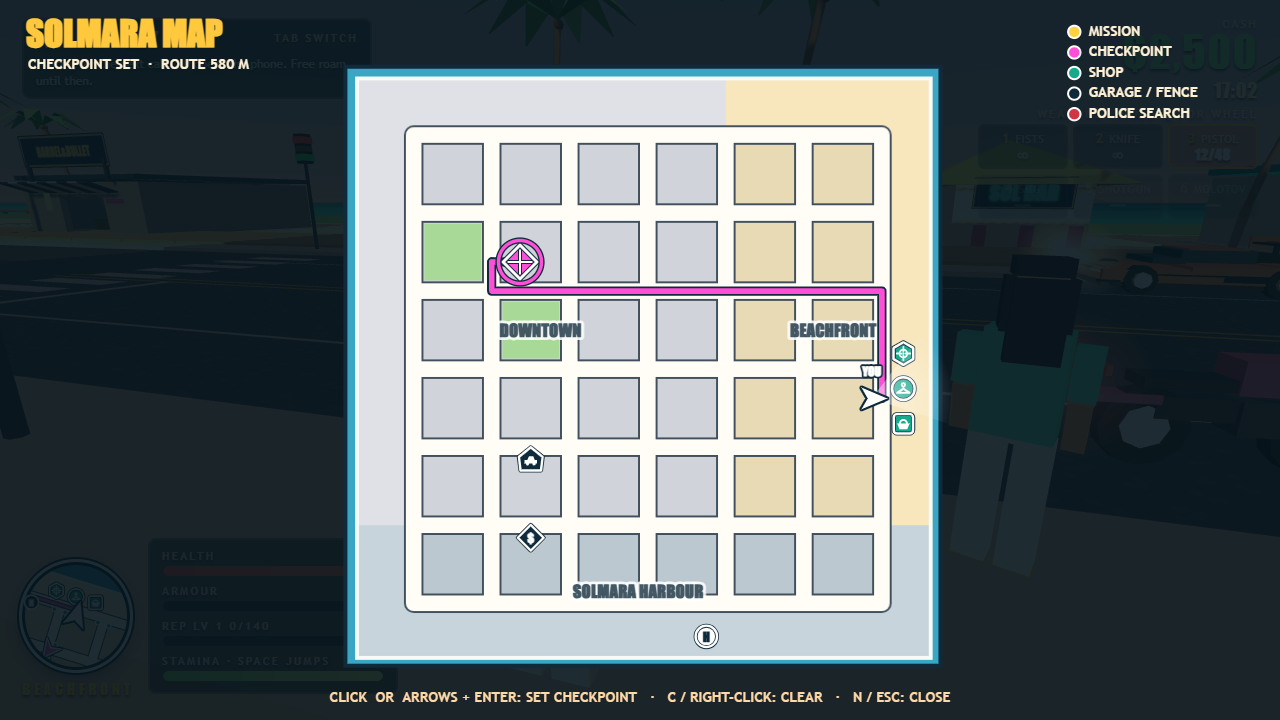
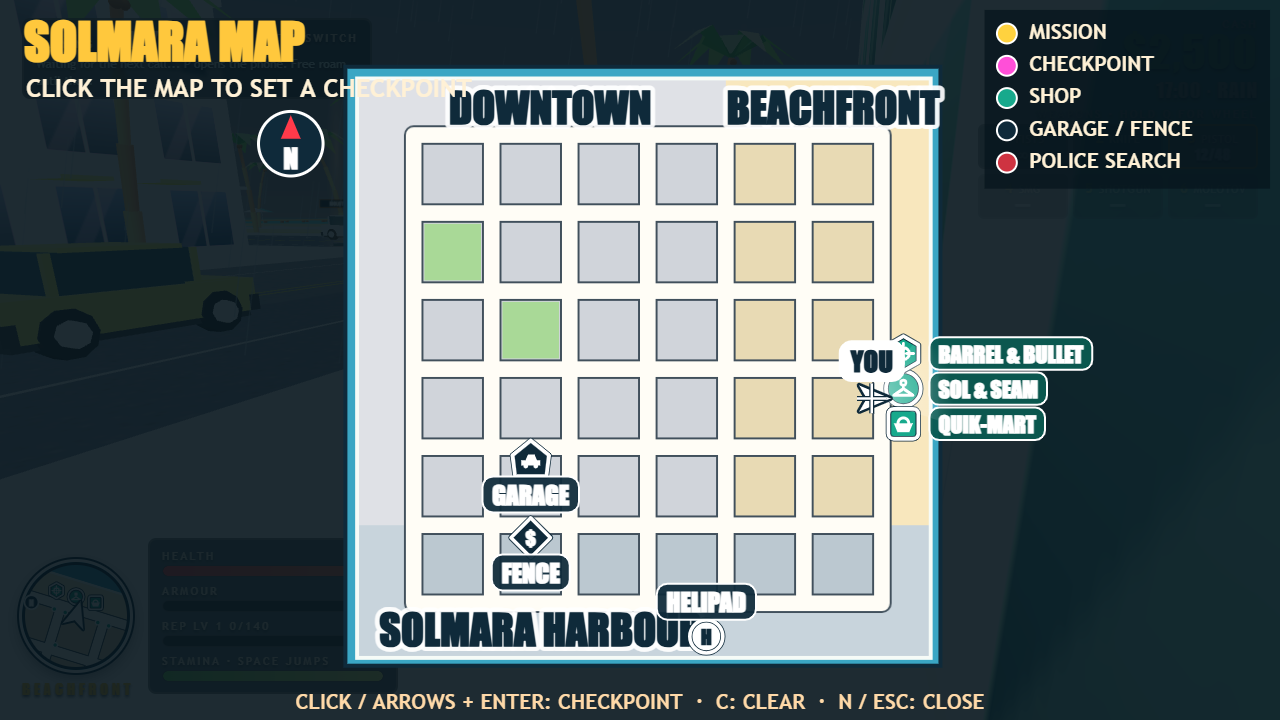
Map labels: district names, FENCE/GARAGE/shop/helipad tags, YOU + CHECKPOINT pills, north compass, bigger legend; legible at 640 px

diff --git a/game/src/map.js b/game/src/map.js
@@ -55,7 +55,7 @@
   };
 
   function draw() {
-    const A = CW.hud.api, c = ctx, P = CW.player, U = Math.max(1, Math.min(W, H) / 700);
+    const A = CW.hud.api, c = ctx, P = CW.player, U = Math.max(1, Math.min(W, H) / 580);
     c.setTransform(dpr, 0, 0, dpr, 0, 0); c.clearRect(0, 0, W, H);
     const base = A.getMap();
     const tl = toScr(-310, -310), br = toScr(300, 304);
@@ -65,10 +65,17 @@
     // frame around the sea
     c.strokeStyle = A.INK; c.lineWidth = 4; c.strokeRect(tl.x, tl.y, br.x - tl.x, br.y - tl.y);
     // district names
-    c.save(); c.font = '900 ' + Math.round(17 * U) + 'px Impact, "Arial Black", sans-serif'; c.textAlign = 'center'; c.textBaseline = 'middle'; c.lineJoin = 'round';
-    [['DOWNTOWN', -110, -40], ['BEACHFRONT', 190, -40], ['SOLMARA HARBOUR', -10, 228]].forEach(([t, x, z]) => { const s = toScr(x, z); c.lineWidth = 5 * U; c.strokeStyle = 'rgba(255,255,255,.85)'; c.strokeText(t, s.x, s.y); c.fillStyle = 'rgba(15,42,58,.78)'; c.fillText(t, s.x, s.y); });
+    // (sizes are chosen so every label is still >= ~11 px when a 1280 px screenshot is shrunk to 640 px)
+    const tag = (t, x, y, align, size, bg, fg) => {   // pill label: dark ink plate, white text, anchored at (x, y)
+      c.save(); c.font = '900 ' + Math.round(size) + 'px Impact, "Arial Black", sans-serif'; c.textBaseline = 'middle'; c.textAlign = 'left';
+      const w = c.measureText(t).width + size * 0.8, h = size * 1.45, x0 = align === 'l' ? x : align === 'r' ? x - w : x - w / 2;
+      c.fillStyle = bg || 'rgba(15,42,58,.94)'; c.strokeStyle = '#fff'; c.lineWidth = 2; c.beginPath(); c.roundRect ? c.roundRect(x0, y - h / 2, w, h, h * 0.3) : c.rect(x0, y - h / 2, w, h); c.fill(); c.stroke();
+      c.fillStyle = fg || '#fff'; c.fillText(t, x0 + size * 0.4, y + size * 0.04); c.restore();
+    };
+    c.save(); c.font = '900 ' + Math.round(34 * U) + 'px Impact, "Arial Black", sans-serif'; c.textAlign = 'center'; c.textBaseline = 'middle'; c.lineJoin = 'round';
+    [['DOWNTOWN', -100, -268], ['BEACHFRONT', 190, -268], ['SOLMARA HARBOUR', -110, 268]].forEach(([t, x, z]) => { const s = toScr(x, z); c.lineWidth = 7 * U; c.strokeStyle = 'rgba(255,255,255,.92)'; c.strokeText(t, s.x, s.y); c.fillStyle = A.INK; c.fillText(t, s.x, s.y); });
     c.restore();
-    const ir = 11 * U;
+    const ir = 14 * U, LS = 20 * U;
     // police search zone
     const Wp = CW.police;
     if (Wp && Wp.level >= 1 && !Wp.seen) {
@@ -95,23 +102,24 @@
     let wlen = 0; if (CW.hud.wp) wlen = route(CW.hud.wp.x, CW.hud.wp.z, A.MAG);
     // landmarks + shops
     const lm = CW.world.landmarks;
-    if (lm.garage) { const s = toScr(lm.garage.x, lm.garage.z); A.badge(c, 'house', s.x, s.y, ir, A.INK, 'garage'); }
-    if (lm.fence) { const s = toScr(lm.fence.x, lm.fence.z); A.badge(c, 'diamond', s.x, s.y, ir * 0.95, A.INK, 'fence'); }
-    if (CW.air) { const s = toScr(CW.air.heli.x, CW.air.heli.z); A.badge(c, 'circle', s.x, s.y, ir * 0.95, A.WHITE, 'heli'); }
-    if (CW.shops) CW.shops.list.forEach((sh) => { const s = toScr(sh.cx, sh.cz); A.badge(c, sh.kind === 'boutique' ? 'circle' : sh.kind === 'gun' ? 'hex' : 'square', s.x, s.y, ir, A.GREEN, sh.kind === 'boutique' ? 'boutique' : sh.kind === 'gun' ? 'gun' : 'market'); });
+    if (lm.garage) { const s = toScr(lm.garage.x, lm.garage.z); A.badge(c, 'house', s.x, s.y, ir, A.INK, 'garage'); tag('GARAGE', s.x, s.y + ir * 2, 'c', LS); }
+    if (lm.fence) { const s = toScr(lm.fence.x, lm.fence.z); A.badge(c, 'diamond', s.x, s.y, ir * 0.95, A.INK, 'fence'); tag('FENCE', s.x, s.y + ir * 2, 'c', LS); }
+    if (CW.air) { const s = toScr(CW.air.heli.x, CW.air.heli.z); A.badge(c, 'circle', s.x, s.y, ir * 0.95, A.WHITE, 'heli'); tag('HELIPAD', s.x, s.y - ir * 2, 'c', LS); }
+    const SN = { boutique: 'SOL & SEAM', gun: 'BARREL & BULLET', mart: 'QUIK-MART' };
+    if (CW.shops) CW.shops.list.forEach((sh) => { const s = toScr(sh.cx, sh.cz); A.badge(c, sh.kind === 'boutique' ? 'circle' : sh.kind === 'gun' ? 'hex' : 'square', s.x, s.y, ir, A.GREEN, sh.kind === 'boutique' ? 'boutique' : sh.kind === 'gun' ? 'gun' : 'market'); tag(SN[sh.kind] || 'SHOP', s.x + ir * 1.5, s.y, 'l', LS * 0.9, 'rgba(10,90,80,.95)'); });
     // mission icon
     if (mk) {
       const s = toScr(mk.x, mk.z);
       c.lineWidth = 6 * U; c.strokeStyle = A.INK; c.beginPath(); c.arc(s.x, s.y, ir * 2, 0, 7); c.stroke();
       c.lineWidth = 3.4 * U; c.strokeStyle = A.YELLOW; c.beginPath(); c.arc(s.x, s.y, ir * 2, 0, 7); c.stroke();
-      A.badge(c, 'circle', s.x, s.y, ir * 1.5, A.YELLOW, 'mission');
+      A.badge(c, 'circle', s.x, s.y, ir * 1.5, A.YELLOW, 'mission'); tag('MISSION', s.x, s.y - ir * 3.2, 'c', LS, A.YELLOW, A.INK);
     }
     // checkpoint pin
     if (CW.hud.wp) {
       const s = toScr(CW.hud.wp.x, CW.hud.wp.z);
       c.lineWidth = 6 * U; c.strokeStyle = A.INK; c.beginPath(); c.arc(s.x, s.y, ir * 1.9, 0, 7); c.stroke();
       c.lineWidth = 3.4 * U; c.strokeStyle = A.MAG; c.beginPath(); c.arc(s.x, s.y, ir * 1.9, 0, 7); c.stroke();
-      A.badge(c, 'diamond', s.x, s.y, ir * 1.25, A.MAG, null);
+      A.badge(c, 'diamond', s.x, s.y, ir * 1.25, A.MAG, null); tag('CHECKPOINT', s.x, s.y - ir * 3.2, 'c', LS, A.MAG, A.INK);
     }
     // police dots
     if (Wp && Wp.level >= 1) Wp.cops.forEach((q) => { if (q.hidden || q.cs === 'idle' || q.cs === 'dead') return; const s = toScr(q.x, q.z); c.fillStyle = Math.floor(performance.now() / 250) % 2 ? A.RED : A.BLUE; c.strokeStyle = A.WHITE; c.lineWidth = 1.6 * U; c.beginPath(); c.arc(s.x, s.y, 4.5 * U, 0, 7); c.fill(); c.stroke(); });
@@ -122,21 +130,26 @@
     c.fillStyle = g; c.beginPath(); c.moveTo(0, 0); c.arc(0, 0, 84 * k, va - 0.62, va + 0.62); c.closePath(); c.fill();
     c.rotate(-hd); c.lineJoin = 'round'; c.fillStyle = A.WHITE; c.strokeStyle = A.INK; c.lineWidth = 4.2 * U;
     c.beginPath(); c.moveTo(0, 15 * U); c.lineTo(-10.5 * U, -10 * U); c.lineTo(0, -4 * U); c.lineTo(10.5 * U, -10 * U); c.closePath(); c.stroke(); c.fill(); c.restore();
-    c.save(); c.font = '900 ' + Math.round(12 * U) + 'px Impact, "Arial Black", sans-serif'; c.textAlign = 'center'; c.lineJoin = 'round'; c.lineWidth = 4 * U; c.strokeStyle = A.INK; c.fillStyle = A.WHITE;
-    c.strokeText('YOU', ps.x, ps.y - 22 * U); c.fillText('YOU', ps.x, ps.y - 22 * U); c.restore();
+    tag('YOU', ps.x, ps.y - 30 * U, 'c', LS * 1.1, '#fff', A.INK);
+    // north marker (north = up, as on the minimap)
+    { const nx = Math.max(46 * U, tl.x - 44 * U), ny = tl.y + 62 * U; c.save(); c.translate(nx, ny); c.fillStyle = A.INK; c.strokeStyle = '#fff'; c.lineWidth = 3; c.beginPath(); c.arc(0, 0, 26 * U, 0, 7); c.fill(); c.stroke();
+      c.fillStyle = '#ff3a4a'; c.beginPath(); c.moveTo(0, -23 * U); c.lineTo(8 * U, -4 * U); c.lineTo(-8 * U, -4 * U); c.closePath(); c.fill();
+      c.fillStyle = '#fff'; c.font = '900 ' + Math.round(22 * U) + 'px Impact, "Arial Black", sans-serif'; c.textAlign = 'center'; c.textBaseline = 'middle'; c.fillText('N', 0, 12 * U); c.restore(); }
     // cursor
     const cs = toScr(M.cur.x, M.cur.z); c.save(); c.strokeStyle = A.INK; c.lineWidth = 4 * U; c.beginPath(); c.moveTo(cs.x - 12 * U, cs.y); c.lineTo(cs.x + 12 * U, cs.y); c.moveTo(cs.x, cs.y - 12 * U); c.lineTo(cs.x, cs.y + 12 * U); c.stroke();
     c.strokeStyle = A.WHITE; c.lineWidth = 2 * U; c.stroke(); c.restore();
     // header + legend + hints
     c.save(); c.textBaseline = 'top'; c.lineJoin = 'round';
-    c.font = '900 ' + Math.round(34 * U) + 'px Impact, "Arial Black", sans-serif'; c.textAlign = 'left'; c.fillStyle = '#ffc83d'; c.fillText('SOLMARA MAP', 26, 16 * U);
-    c.font = '700 ' + Math.round(14 * U) + 'px "Trebuchet MS", sans-serif'; c.fillStyle = '#fff1d6';
-    c.fillText(CW.hud.wp ? 'CHECKPOINT SET  ·  ROUTE ' + Math.round(wlen / 5) * 5 + ' M' : 'NO CHECKPOINT  ·  CLICK THE MAP TO SET ONE', 28, 16 * U + 40 * U);
-    c.textAlign = 'center'; c.fillStyle = '#ffd9a8';
-    c.fillText('CLICK  OR  ARROWS + ENTER: SET CHECKPOINT   ·   C / RIGHT-CLICK: CLEAR   ·   N / ESC: CLOSE', W / 2, H - 28 * U);
-    // legend
+    c.font = '900 ' + Math.round(40 * U) + 'px Impact, "Arial Black", sans-serif'; c.textAlign = 'left'; c.fillStyle = '#ffc83d'; c.fillText('SOLMARA MAP', 24, 14 * U);
+    c.font = '700 ' + Math.round(20 * U) + 'px "Trebuchet MS", sans-serif'; c.fillStyle = '#fff1d6';
+    c.fillText(CW.hud.wp ? 'ROUTE  ' + Math.round(wlen / 5) * 5 + ' M' : 'CLICK THE MAP TO SET A CHECKPOINT', 26, 14 * U + 48 * U);
+    c.textAlign = 'center'; c.fillStyle = '#ffd9a8'; c.font = '700 ' + Math.round(17 * U) + 'px "Trebuchet MS", sans-serif';
+    c.fillText('CLICK / ARROWS + ENTER: CHECKPOINT  ·  C: CLEAR  ·  N / ESC: CLOSE', W / 2, H - 22 * U);
+    // legend (top-right corner)
     const items = [[A.YELLOW, 'MISSION'], [A.MAG, 'CHECKPOINT'], [A.GREEN, 'SHOP'], [A.INK, 'GARAGE / FENCE'], ['rgba(255,58,74,.8)', 'POLICE SEARCH']];
-    c.textAlign = 'left'; let lx = W - 200 * U; items.forEach((it, i) => { const y = 24 * U + i * 20 * U; c.fillStyle = it[0]; c.strokeStyle = A.WHITE; c.lineWidth = 2; c.beginPath(); c.arc(lx, y + 7 * U, 6 * U, 0, 7); c.fill(); c.stroke(); c.fillStyle = '#fff1d6'; c.fillText(it[1], lx + 14 * U, y); });
+    c.font = '800 ' + Math.round(17 * U) + 'px "Trebuchet MS", sans-serif'; c.textAlign = 'left'; const lx = W - 220 * U;
+    c.fillStyle = 'rgba(5,20,28,.75)'; c.fillRect(lx - 18 * U, 8 * U, 230 * U, items.length * 26 * U + 14 * U);
+    items.forEach((it, i) => { const y = 18 * U + i * 26 * U; c.fillStyle = it[0]; c.strokeStyle = A.WHITE; c.lineWidth = 2; c.beginPath(); c.arc(lx, y + 9 * U, 8 * U, 0, 7); c.fill(); c.stroke(); c.fillStyle = '#fff1d6'; c.fillText(it[1], lx + 18 * U, y); });
     c.restore();
   }
   window.addEventListener('resize', () => { if (M.open) layout(); });
